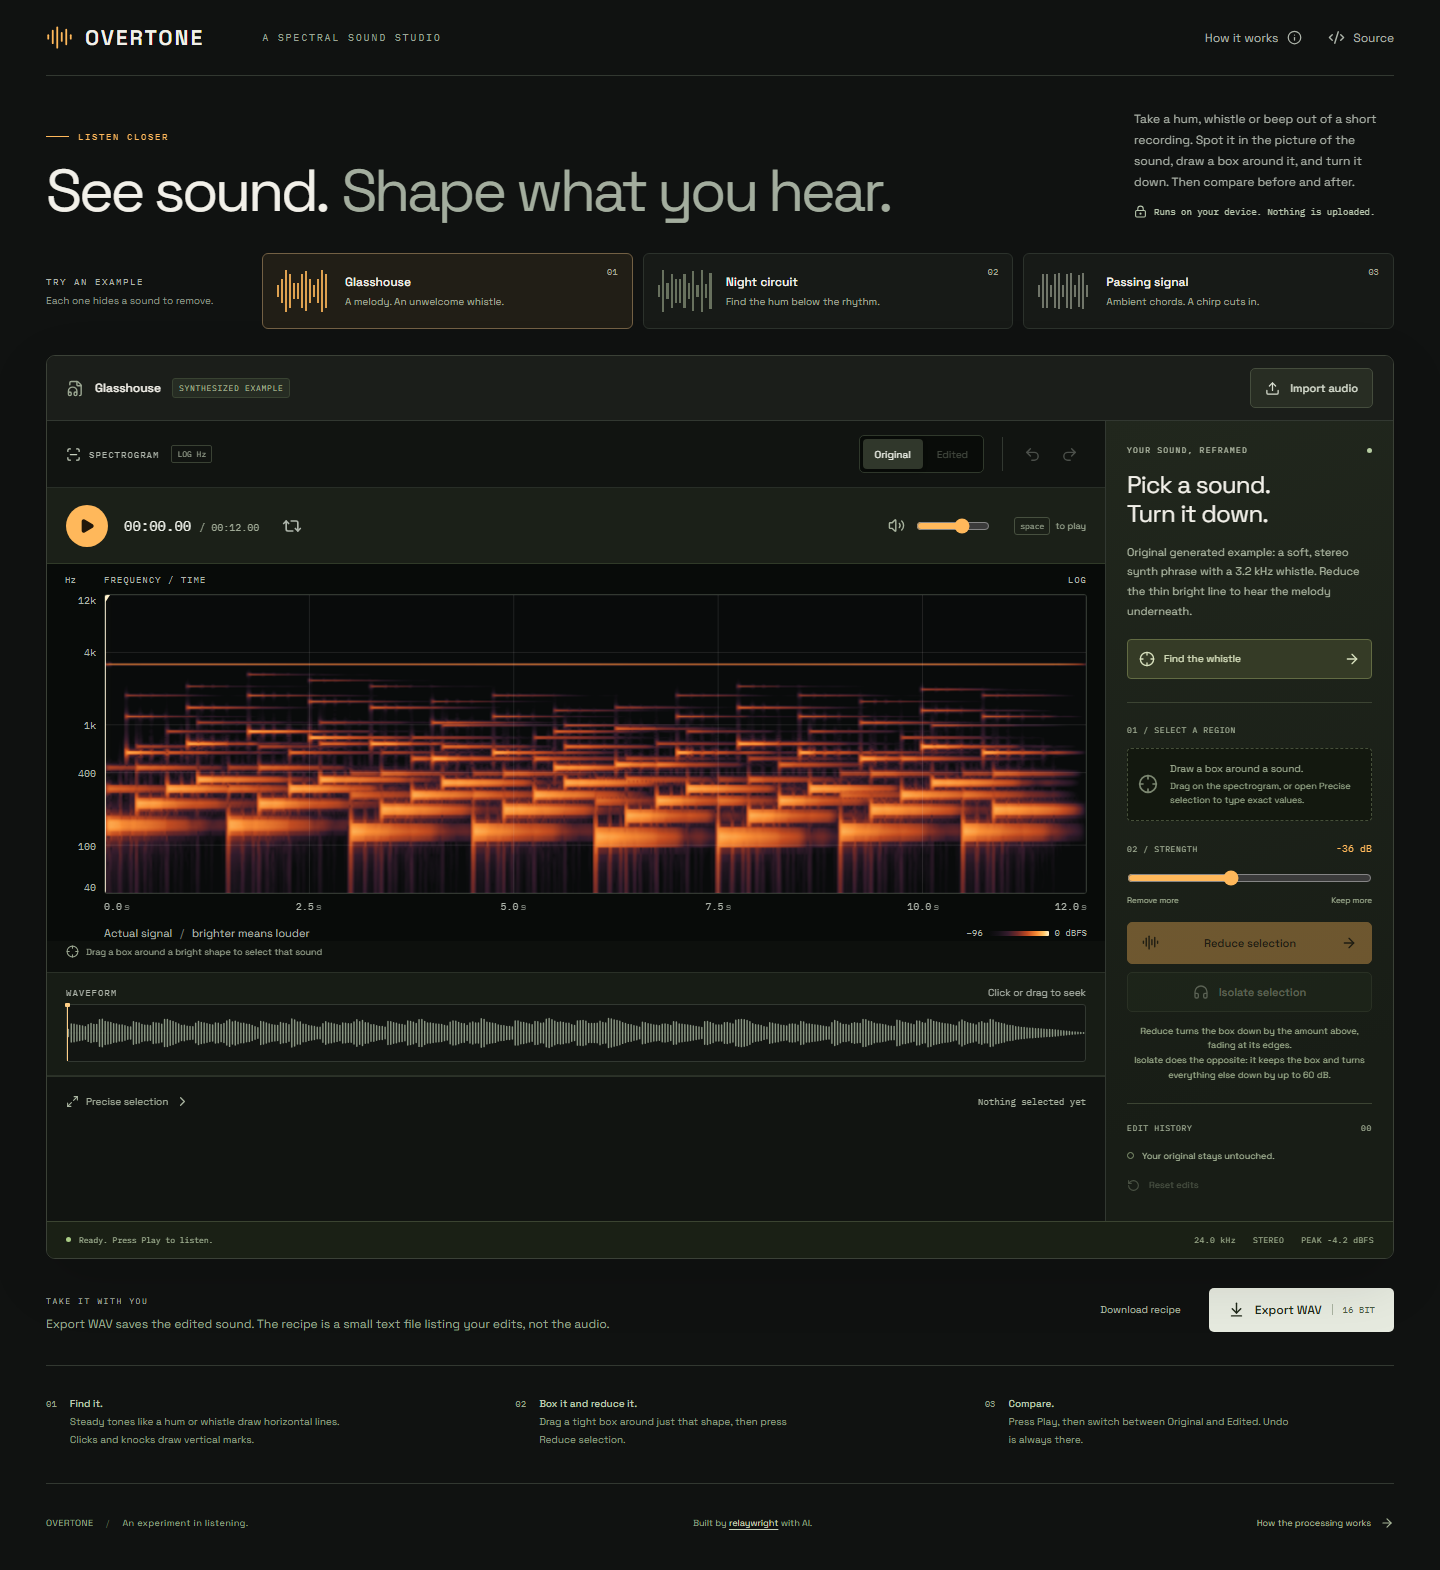
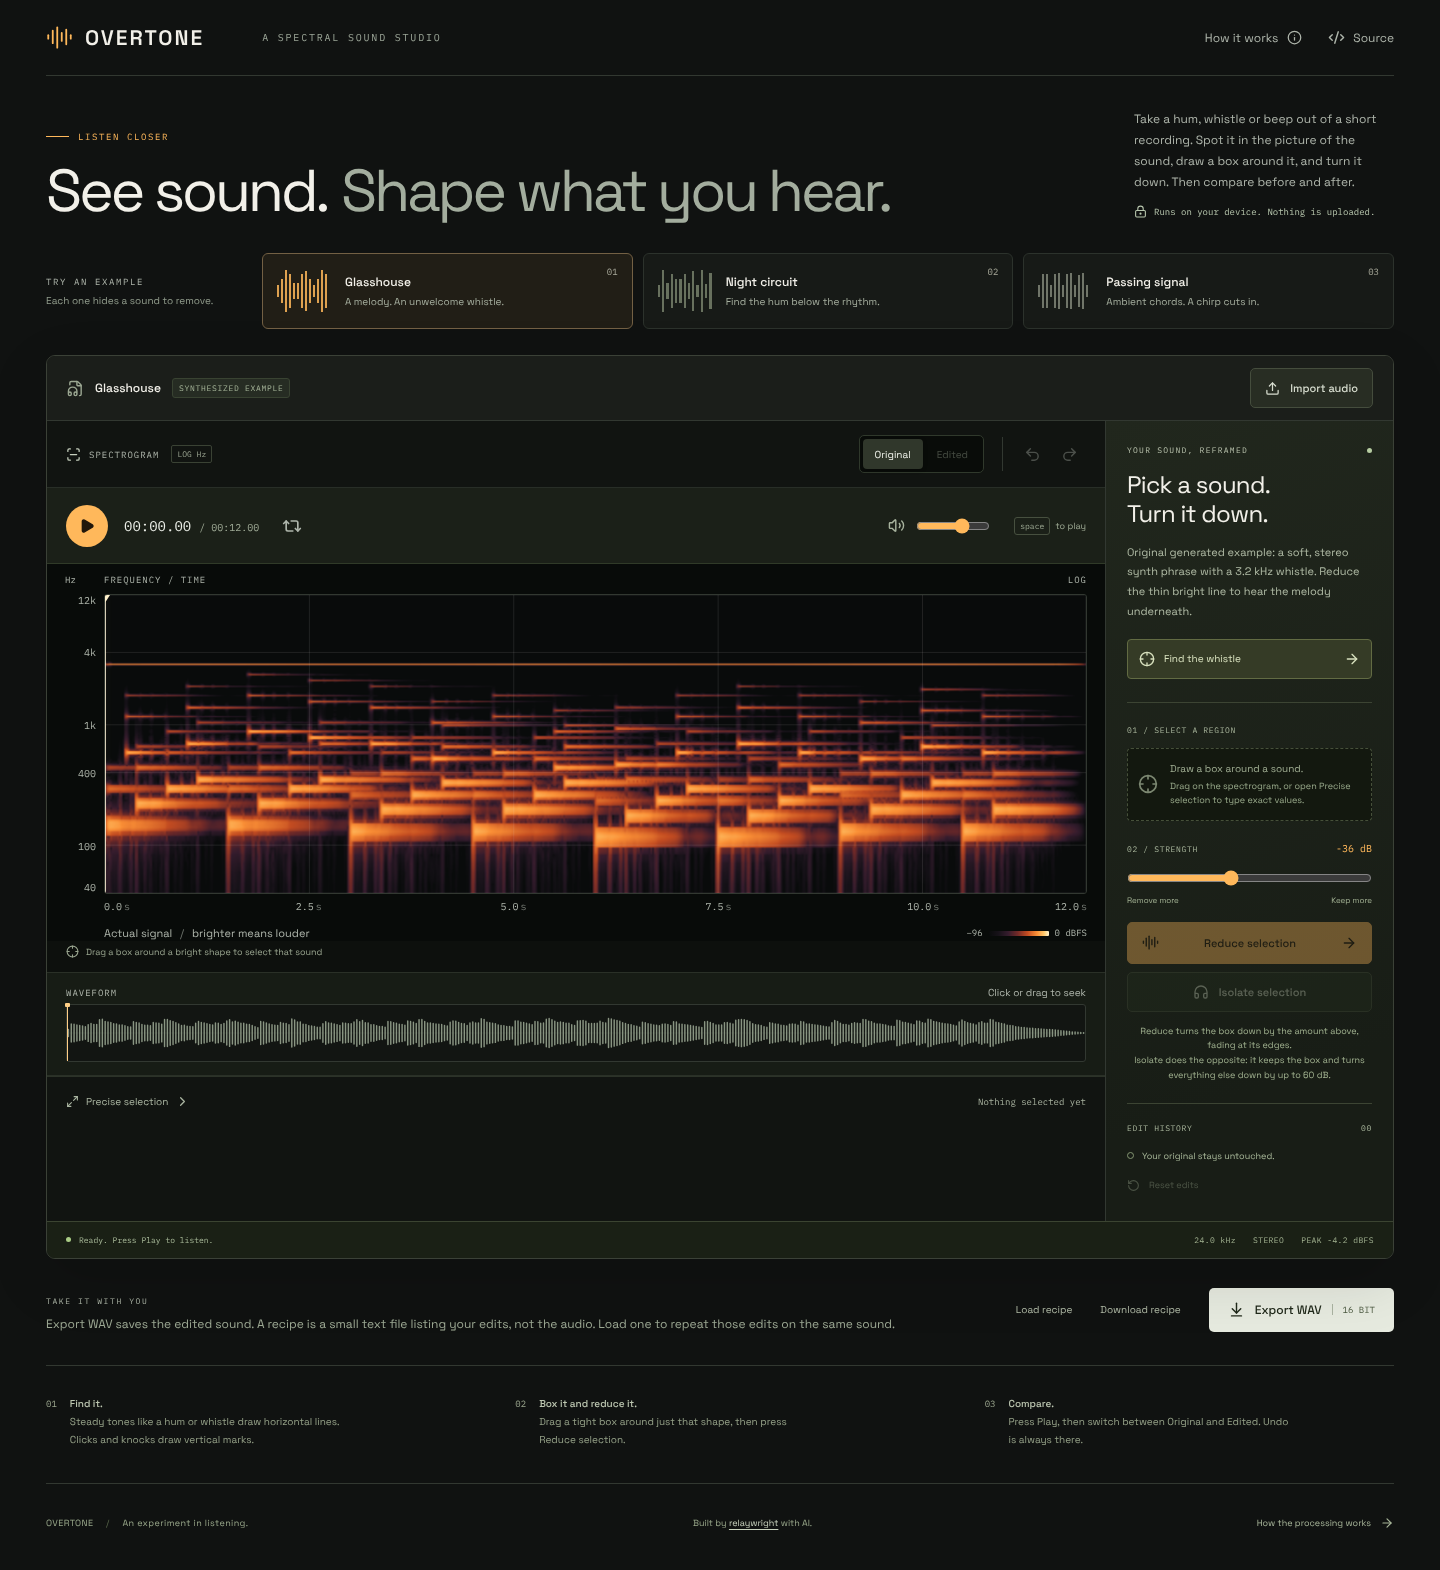
docs: record the October 11 changes and recapture screenshots
The verification report gains a dated entry listing the five changes,
their measured effect, and what was checked locally: 52 unit tests, 43
browser checks at desktop and phone sizes in Chromium, and the studio
journeys in Firefox and WebKit on Linux. It says plainly that the public
site is re-verified only after this change deploys.

The desktop and phone screenshots are recaptured with the project's script
to show the new Load recipe button. The edited-studio screenshot is left
as it was, since nothing in that view changed.

Claude-Session: https://claude.ai/code/session_01BnFpdCNY6WZwN9yxND9264

diff --git a/docs/verification.md b/docs/verification.md
@@ -24,6 +24,18 @@ The repository was recreated on October 3, 2026 with rewritten history, so commi
[1 lines of base64/hex data omitted]
 | Distribution and privacy           | Third-party notices return HTTP 200. Fonts ship with the app. Source inspection finds no audio upload endpoints, analytics, API secrets, or private user documents. Production dependencies report zero known audit vulnerabilities at release. |
 
+## October 11, 2026 update
+
+Five changes since the release above, each with a regression test that fails on the previous code:
+
+- **Precise selection typing.** The number fields clamped every keystroke, so typing 5000 Hz ended at 12 kHz and 100 Hz ended at 4 kHz. Values now apply when they fit and are fitted to range on Enter or leaving the field.
+- **Time readouts.** 59.996 s read 00:60.00; the screen reader text said "60.0 seconds" and "1 minutes".
+- **Faster rendering.** Frames whose gain is the same in every bin skip the FFT. For a 60-second stereo 48 kHz clip in Node, one 1-second reduction went from 4.8 s to 0.78 s, and a full-length reduction from 4.9 s to 3.1 s. A unit test compares the result with transforming every frame (difference below 10⁻⁶).
+- **Load recipe.** A saved recipe can be loaded to reapply its edits. A browser test checks that loading it on the same sound exports a byte-identical WAV.
+- **Keyboard order.** The hidden file input behind Import audio is no longer an invisible tab stop.
+
+Checked locally on the production build: 52 unit tests pass; 43 browser checks pass at 1440px and 390px in Chromium, with the touch-only case skipped on desktop as before; `tests/studio.spec.ts` passes in Firefox and WebKit on Linux. The desktop and phone screenshots were recaptured to show the Load recipe button. The public site will be re-verified after the GitHub Actions deployment of this change; until then, the October 3 evidence above describes the live site.
+
 ## Reproduce
 
 ```sh
